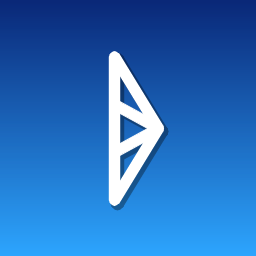
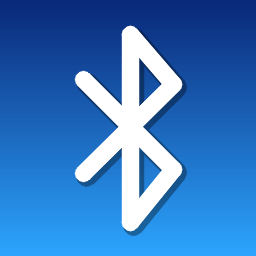
fix(bt-showcase): use official Bluetooth rune geometry (was a triangle)
Icon glyph now traces the exact Wikimedia Bluetooth.svg path
(m157 330 305 307-147 178V179l147 170-305 299): vertical stem +
two corner-to-corner diagonals crossing at center = the Hagall+Bjarkan
bind-rune. Previous geometry shared one right vertex, collapsing both
bumps into a diamond/triangle. Scaled programmatically to 256x256,
stroke width matched to the official 53 viewBox units.

Changed region(s): [[0.2812, 0.0938, 0.75, 0.9375]]

diff --git a/app/bt-showcase/gen_icon.py b/app/bt-showcase/gen_icon.py
@@ -1,11 +1,13 @@
 '''生成 icon.png(256×256):蓝色渐变底 + 白色蓝牙符。
 
-设备上跑:`python gen_icon.py` → 当前目录生成 icon.png。
+设备上跑:`python3 gen_icon.py` → 当前目录生成 icon.png。
 系统启动器据此自动生成 icon_100.png,并在桌面显示 app 名称(取自 app.txt),
 故图标本身只放蓝牙符,不重复文字。
 
-蓝牙符是 Hagall+Bjarkan 的 bind-rune:一根竖茎 + 上下两个三角,
-共享右侧顶点 R。整符水平略左移,让菱形偏右的视觉重心落在画面中心。
+蓝牙符几何直接取自官方 Wikimedia `Bluetooth.svg`(viewBox 0 0 640 976,
+path `m157 330 305 307-147 178V179l147 170-305 299`,stroke-width=53):
+一根竖茎 + 上下两条贯穿对角线在中心交叉,构成 Hagall+ Bjarkan 的 bind-rune。
+6 个顶点连成 5 段折线,按长宽比缩放居中到 256 画布。
 '''
 import os
 
@@ -14,6 +16,27 @@ import numpy as np
 
 S = 256
 CX = CY = S // 2   # 128
+
+# 官方蓝牙符顶点(Wikimedia Bluetooth.svg,viewBox 640×976,见模块 docstring)。
+_VB = [(157, 330), (462, 637), (315, 815), (315, 179), (462, 349), (157, 648)]
+_VB_STROKE = 53     # 官方描边宽(viewBox 单位)
+
+
+def _rune():
+    '''官方顶点按长宽比缩放、居中到 256 画布;返回 [(a,b),...] 5 段与描边宽。'''
+    xs = [p[0] for p in _VB]
+    ys = [p[1] for p in _VB]
+    gw, gh = max(xs) - min(xs), max(ys) - min(ys)          # 305 × 636(高瘦)
+    gcx, gcy = (max(xs) + min(xs)) / 2, (max(ys) + min(ys)) / 2
+    pad = 34
+    s = min((S - 2 * pad) / gw, (S - 2 * pad) / gh)        # 高度 636 受限
+    pts = [(int(round(CX + (x - gcx) * s)),
+            int(round(CY + (y - gcy) * s))) for x, y in _VB]
+    segs = list(zip(pts, pts[1:]))                         # (P0,P1)..(P4,P5)
+    return segs, max(8, int(round(_VB_STROKE * s)))
+
+
+RUNE, STROKE = _rune()
 
 
 def _gradient_bg():
@@ -26,18 +49,6 @@ def _gradient_bg():
     return img.astype(np.uint8)
 
 
-# 蓝牙符顶点(见模块 docstring)
-SX = CX - 14        # 茎的 x,整符视觉居中
-H = 72              # 半高
-W = 44              # 右顶点横距
-T = (SX, CY - H)
-B = (SX, CY + H)
-U = (SX, CY - H // 3)
-L = (SX, CY + H // 3)
-R = (SX + W, CY)
-RUNE = [(T, B), (T, R), (R, U), (B, R), (R, L)]
-
-
 def main():
     img = _gradient_bg()
 
@@ -46,12 +57,12 @@ def main():
     dx = dy = 3
     for a, b in RUNE:
         cv2.line(sh, (a[0] + dx, a[1] + dy), (b[0] + dx, b[1] + dy),
-                 (0, 0, 0), 12, cv2.LINE_AA)
+                 (0, 0, 0), STROKE + 3, cv2.LINE_AA)
     cv2.addWeighted(sh, 0.35, img, 0.65, 0, img)
 
-    # 清晰白色符
+    # 清晰白色符(官方几何)
     for a, b in RUNE:
-        cv2.line(img, a, b, (255, 255, 255), 9, cv2.LINE_AA)
+        cv2.line(img, a, b, (255, 255, 255), STROKE, cv2.LINE_AA)
 
     out = os.path.join(os.path.dirname(os.path.abspath(__file__)), "icon.png")
     cv2.imwrite(out, img)
